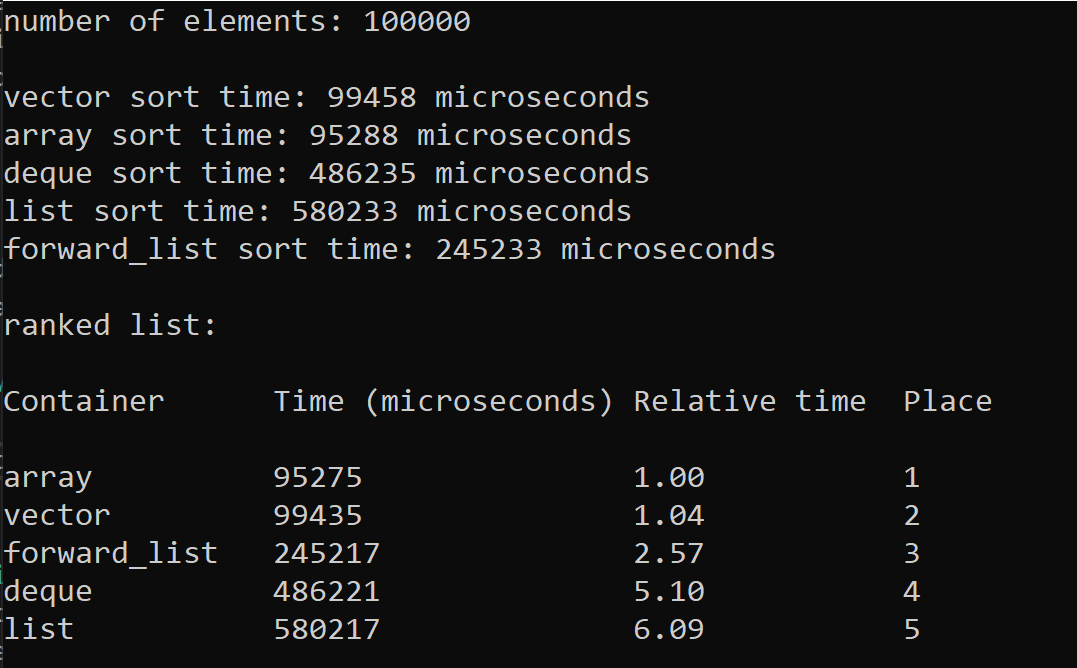
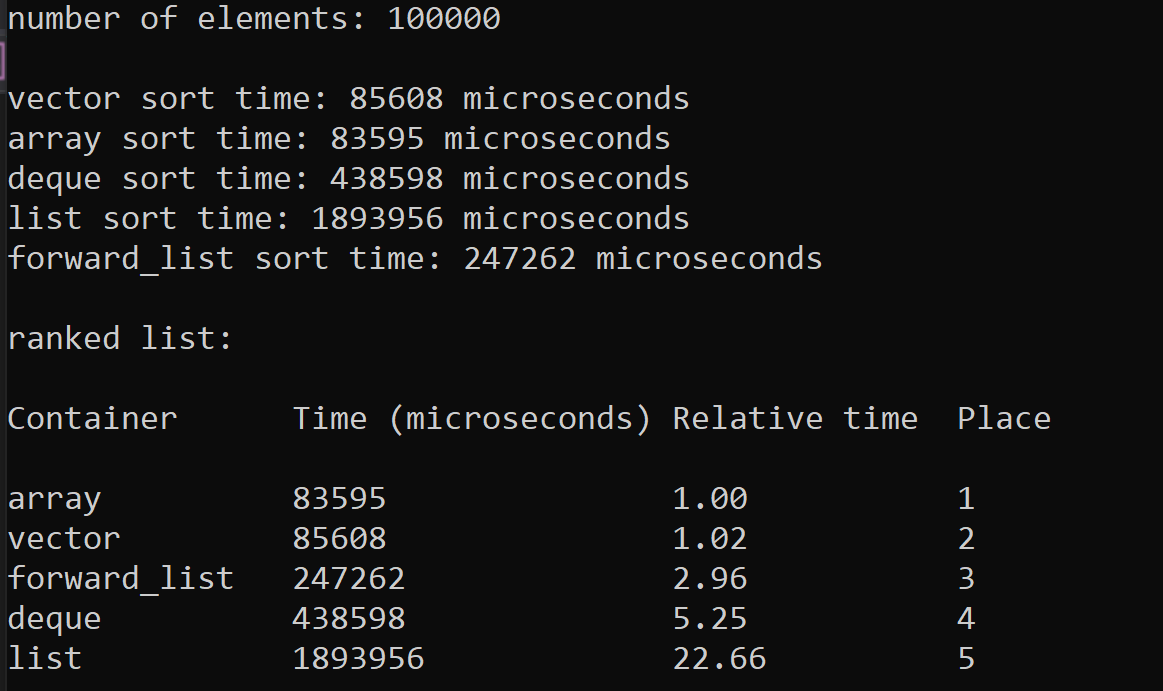
bugs fixed

diff --git a/HW 2 (14)/2.2.cpp b/HW 2 (14)/2.2.cpp
@@ -35,36 +35,41 @@ int main()
 	{
 		Timer_t vector_time("vector sort time");
 		std::sort(vector.begin(), vector.end(), desc);
+		vector_time.stop();
 		results.push_back(Timer_result ("vector", vector_time.current_time()));
 	}
 
 	{
 		Timer_t array_time("array sort time");
 		std::sort(array.begin(), array.end(), desc);
+		array_time.stop();
 		results.push_back(Timer_result("array", array_time.current_time()));
 	}
 
 	{
 		Timer_t deque_time("deque sort time");
 		std::sort(deque.begin(), deque.end(), desc);
+		deque_time.stop();
 		results.push_back(Timer_result("deque", deque_time.current_time()));
 	}
 
 	{
 		Timer_t list_time("list sort time");
-		list.sort();
+		list.sort(desc);
+		list_time.stop();
 		results.push_back(Timer_result("list", list_time.current_time()));
 	}
 
 	{
 		Timer_t forward_list_time("forward_list sort time");
-		forward_list.sort();
+		forward_list.sort(desc);
+		forward_list_time.stop();
 		results.push_back(Timer_result("forward_list", forward_list_time.current_time()));
 	}
 
 	std::sort(results.begin(), results.end(), asc_time);
 	results.shrink_to_fit();
-	for (auto i = 0U; i < results.capacity(); ++i)
+	for (auto i = 0U; i < results.size(); ++i)
 	{
 		results[i].m_place = i + 1;
 		results[i].m_relative_time = static_cast <double> (results[i].m_time) / static_cast <double> (results[0].m_time);

diff --git a/HW 2 (14)/2.2 Header.hpp b/HW 2 (14)/2.2 Header.hpp
@@ -58,9 +58,13 @@ public:
 
 	auto current_time()
 	{
+		bool was_stopped = is_stopped;
 		stop();
 		auto result = std::chrono::duration_cast <Units>(m_time_value).count();
-		contin();
+		if (!was_stopped) 
+		{ 
+			contin();
+		}
 		return result;
 	}
 

diff --git a/HW 1 (13)/1.4.cpp b/HW 1 (13)/1.4.cpp
@@ -57,9 +57,13 @@ public:
 
 	auto current_time()
 	{
+		bool was_stopped = is_stopped;
 		stop();
 		auto result = std::chrono::duration_cast <Units>(m_time_value).count();
-		contin();
+		if (!was_stopped)
+		{
+			contin();
+		}
 		return result;
 	}
 
